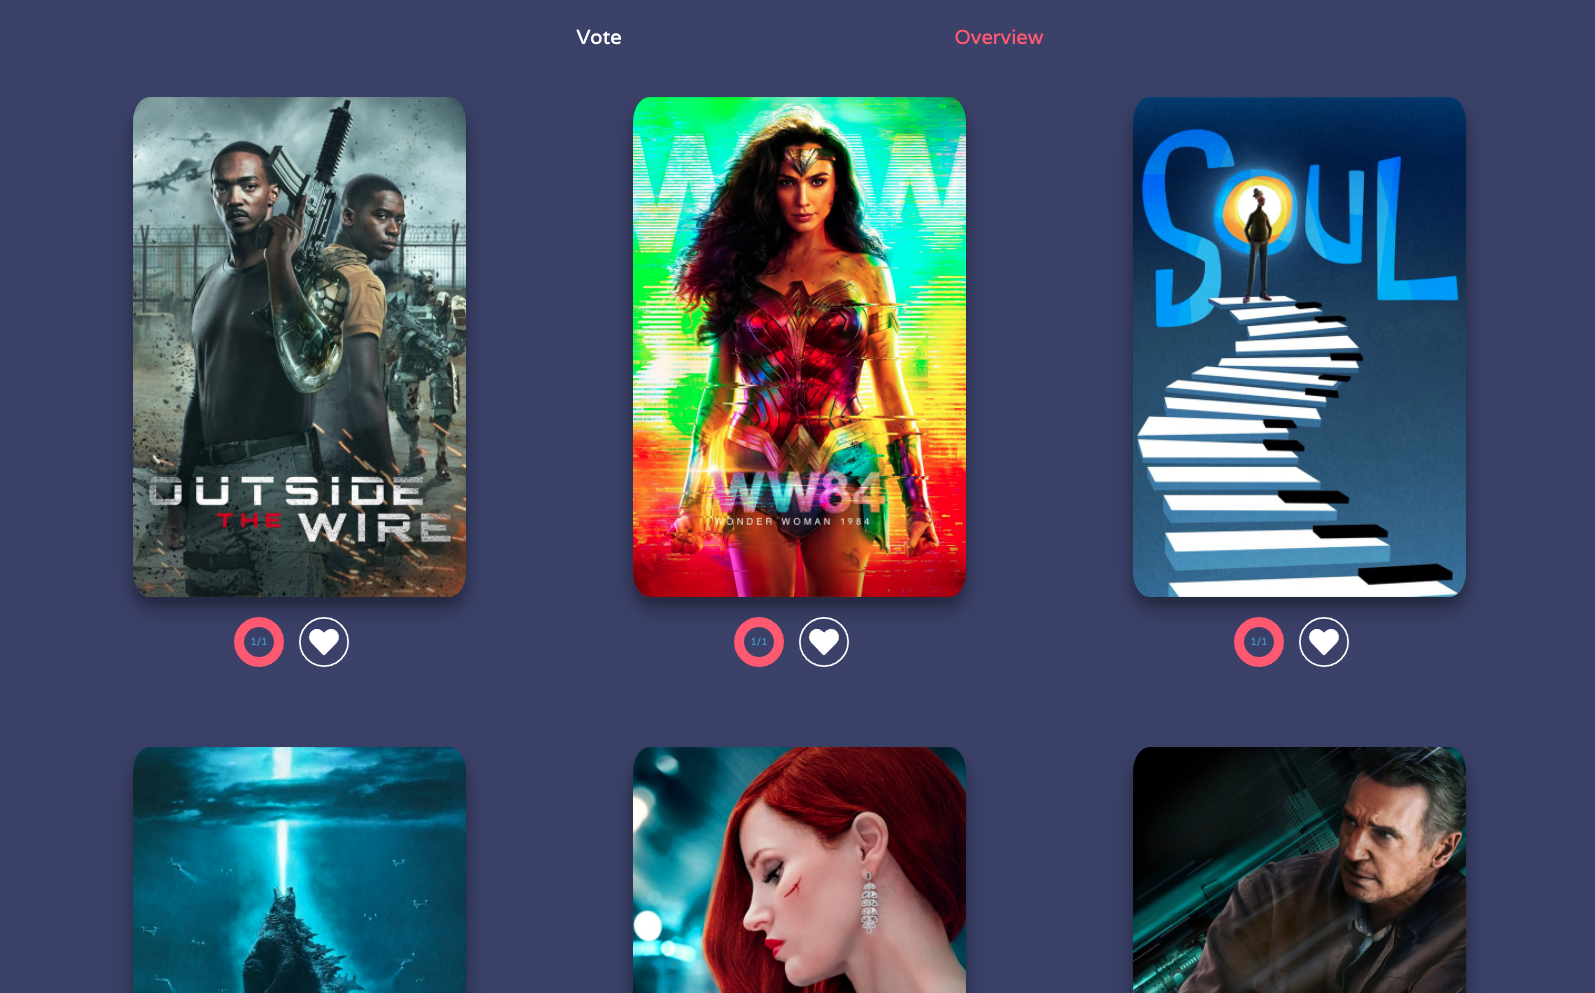
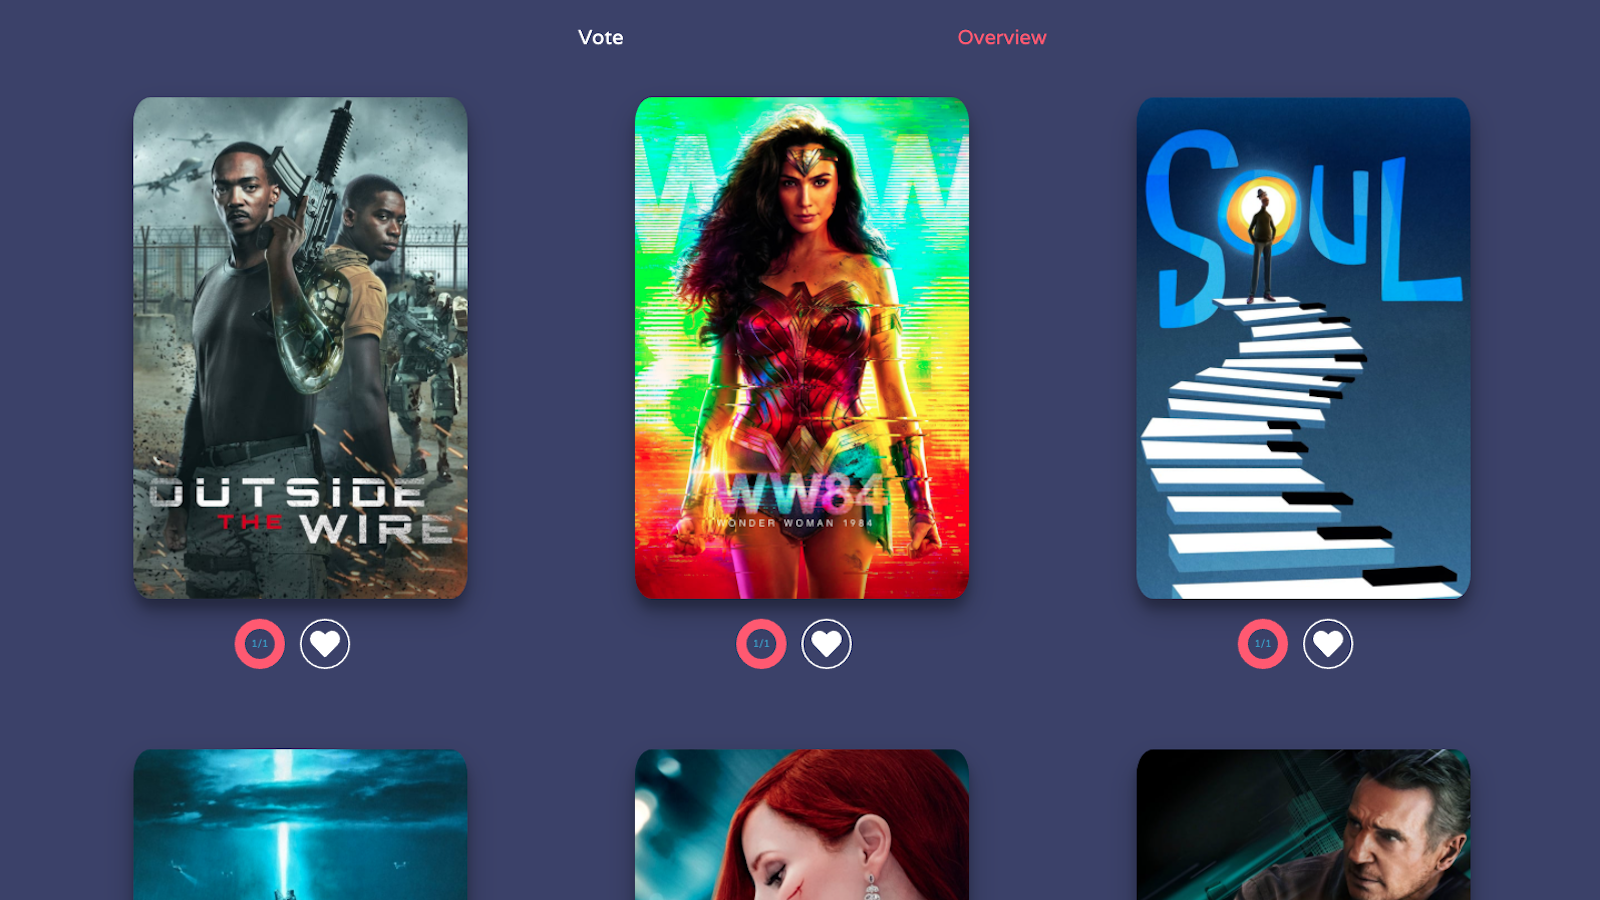
cleaned up css for porfolio section

diff --git a/src/components/project-card.js b/src/components/project-card.js
@@ -12,15 +12,16 @@ export const ProjectCard = ({project}) => {
          <Content fontColor={project.fontColor}>
             <h3>{project.name}</h3>
             <h5>{project.description}</h5>
-
          </Content>
-         <BG imageUrl={project.imageUrl}/>
+         <BG src={project.imageUrl}/>
       </Project>
    );
 }
 
 const Project = styled.div` 
-   border-radius: 3px;
+   margin: max(1%, 20px) 1%;
+   border-radius: 10px;
+   flex: 480px 0 1;
    transition: ${(props) => props.theme.transform} transform .25s ease-in-out;
    position: relative;
    display: flex;
@@ -30,6 +31,7 @@ const Project = styled.div`
 `;
 
 const BrowserWindow = styled.div`
+   border-radius: 5px 5px 0 0;
    width: 100%;
    height: 30px;
    background-color: ${(props) => props.theme.contentBgColor};
@@ -43,7 +45,7 @@ const BrowserButton = styled.div`
    width: 10px;
    border-radius: 50%;
    margin-right: 5px;
-
+   /* Make the window buttons */
    &:nth-of-type(1) {
       background-color: #28ca41;
    }
@@ -55,30 +57,26 @@ const BrowserButton = styled.div`
    }
 `;
 
-const BG = styled.div`
+const BG = styled.img`
    width: 100%;
-   height: 100%;
-   background: url(${(props) => props.imageUrl});
-   background-position: center;
-   background-size: cover;
+   border-radius: 0 0 5px 5px;
 `;
 
 const Content = styled.div`
-   opacity: 0;
    position: absolute;
-   top: 0;
-   left: 0;
+   border-radius: 5px;
    width: 100%;
    height: 100%;  
-
+   opacity: 0;
    display: flex;
    flex-flow: column nowrap;
    justify-content: center;
    align-items: center;
-
    & > * {
       font-family: 'Varela', sans-serif;
       color: ${(props) => props.fontColor};
+      text-align: center;
+      padding: 3%;
    }
    & > h3 {
       font-size: 28px;
@@ -86,11 +84,9 @@ const Content = styled.div`
    & > h5 {
       font-size: 14px;
    }
-
    transition: backdrop-filter .2s ease-in, opacity .2s ease-in;
    &:hover {
       opacity: 1;
       backdrop-filter: blur(40px);
    }
-
 `;

diff --git a/src/sections/portfolio.js b/src/sections/portfolio.js
@@ -2,7 +2,7 @@ import styled from "styled-components";
 import projects from '../config/projects.json';
 import { ProjectCard } from '../components/project-card';
 
-export const Projects = () => {
+export const Portfolio = () => {
 
    return (
       <Section>
@@ -26,7 +26,6 @@ export const Projects = () => {
 
 const Section = styled.section`
    width: 100%;
-   max-width: 1200px;
    display: flex;
    flex-flow: column nowrap;
    align-items: center;
@@ -49,17 +48,9 @@ const Title = styled.h2`
 
 const ProjectsWrapper = styled.div`
    width: 95%;
-   display: grid;
-   gap: 1rem;
-   grid-template-columns: repeat(auto-fit, minmax(360px, 1fr));
-   grid-auto-flow: row dense;
-
-   @media screen and (min-width: 500px) {
-      grid-template-columns: repeat(auto-fit, minmax(480px, 1fr));
-      grid-auto-rows: 360px;
-
-
-   
-   }
+   max-width: 1800px;
+   display: flex;
+   flex-flow: row wrap;
+   justify-content: center;
 `;
 

diff --git a/src/App.js b/src/App.js
@@ -6,7 +6,7 @@ import styled, { ThemeProvider } from 'styled-components';
 import Navigation from './components/navbar';
 import { Home } from './sections/home';
 import { Resume } from './sections/resume';
-import { Projects } from './sections/projects';
+import { Portfolio } from './sections/portfolio';
 import sections from './config/sections.json';
 import themes from './config/themes.json';
 
@@ -88,7 +88,7 @@ export default function App() {
          <Main ref={mainRef}>
             <Home/>
             <Resume scroll={scroll}/>
-            <Projects/>
+            <Portfolio/>
          </Main>
       </ThemeProvider>
    );
